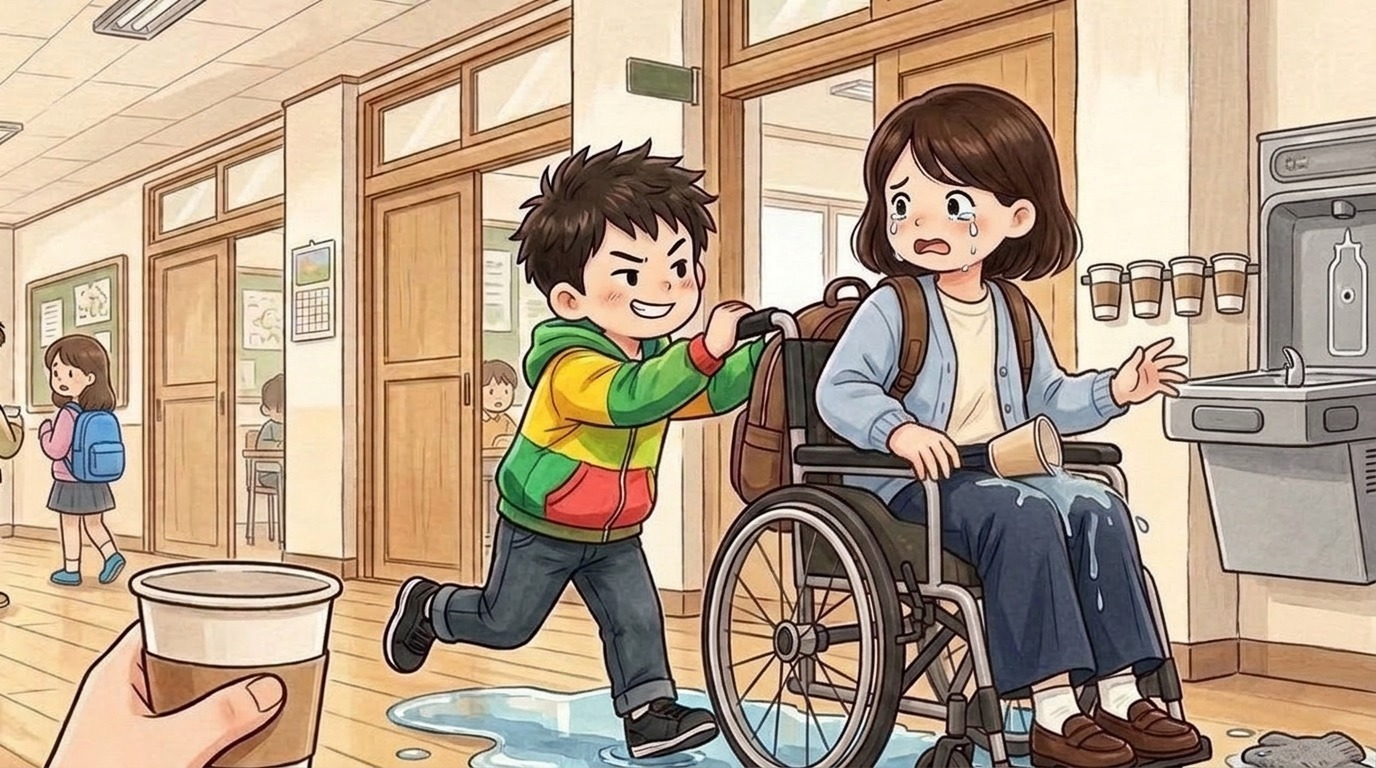
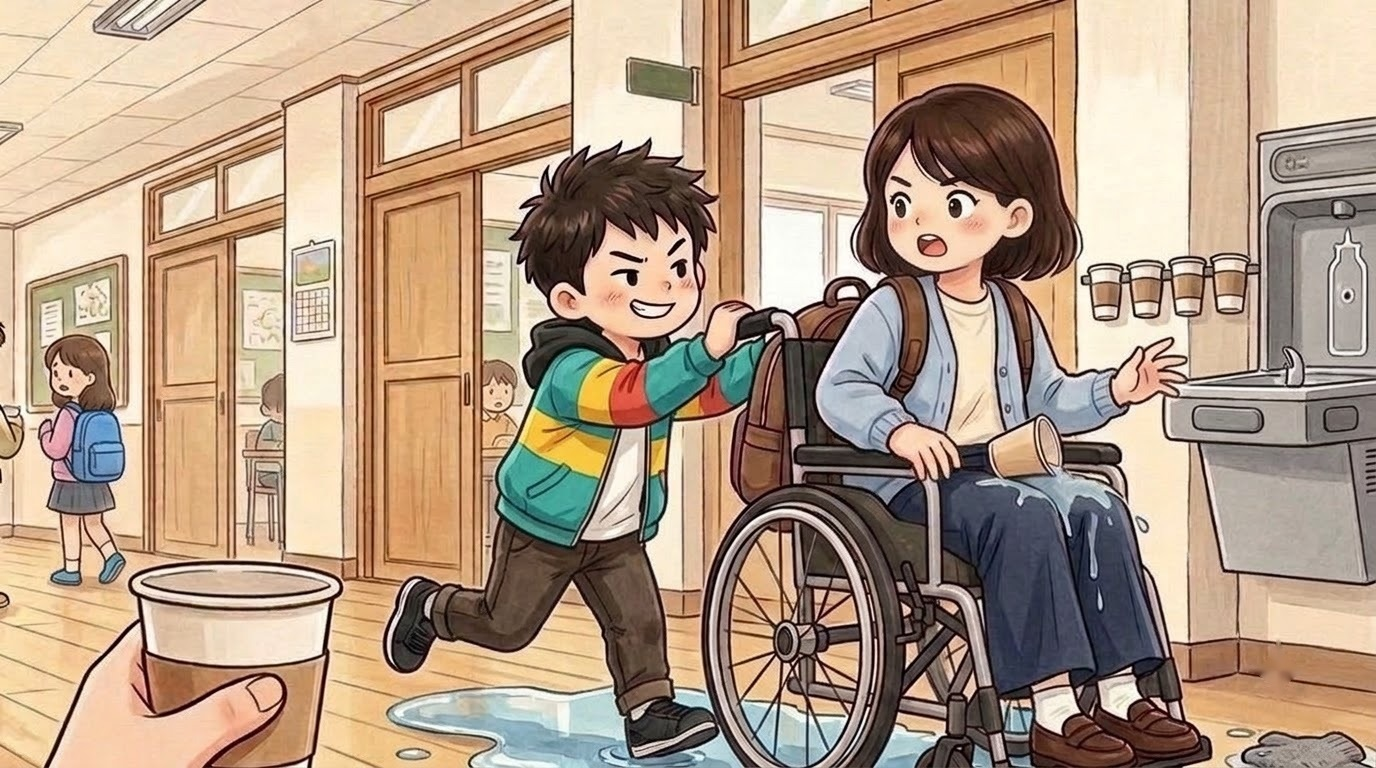
혜은 2일차 휠체어 밀기(hyeeun_02): 우는 얼굴 → 놀라 「잠깐!」 하는 단호한 얼굴, 미는 꼬마 옷을 앞 그림과 같은 알록달록 점퍼로(그림 세션 Flow·메인 비교)

Changed region(s): [[0.2812, 0.4062, 0.5625, 1.0], [0.625, 0.2188, 0.75, 0.375], [0.9062, 0.875, 0.9375, 0.9062]]

diff --git a/index.html b/index.html
@@ -119,14 +119,14 @@ body,button{word-break:keep-all;overflow-wrap:break-word}
 <div id="fader"></div>
 <script>
 // same address, newest version: if the page this phone has kept is older than the one online, fetch the new one and reopen
-const BUILD='1109103709';
+const BUILD='1109104134';
 try{fetch(location.pathname,{cache:'no-store'}).then(r=>r.text()).then(t=>{const m=t.match(/const BUILD='(\d+)'/);if(m&&m[1]!==BUILD&&sessionStorage.getItem('upd')!==m[1]){sessionStorage.setItem('upd',m[1]);fetch(location.pathname,{cache:'reload'}).then(()=>location.reload())}}).catch(()=>{})}catch(e){}
 </script>
-<script src="i18n.js?v=1109103709"></script>
-<script src="i18n_prologue_v2.js?v=1109103709"></script>
-<script src="day2/i18n_engine.js?v=1109103709"></script>
-<script src="day2/data.js?v=1109103709"></script>
-<script src="day3/data.js?v=1109103709"></script>
+<script src="i18n.js?v=1109104134"></script>
+<script src="i18n_prologue_v2.js?v=1109104134"></script>
+<script src="day2/i18n_engine.js?v=1109104134"></script>
+<script src="day2/data.js?v=1109104134"></script>
+<script src="day3/data.js?v=1109104134"></script>
 <script>
 // ---------- data ----------
 const MW=1672,MH=941,KID=180;
@@ -569,36 +569,36 @@ function pickHero(){const m=document.getElementById('modal'),c=document.getEleme
  c.innerHTML=`<h2>${tr('전학생 반장되기')}</h2><p>${tr('한국말이 아직 서툰 전학생,<br>반장 선거에 나가다.')}</p><p style="margin-top:14px">${tr('누구로 할까요?')}</p>${(()=>{const s=loadSave();return s&&s.day>=2&&s.mode===UI+'-'+LANG?`<p><button class="big" id="cont">${tr('{n}일차부터 이어 하기').replace('{n}',s.day)}</button></p>`:''})()}<div class="pick heroes"><button data-h="hero_f"><img src="faces/hero_f_smile.jpg" alt="여자 주인공">${heroName(1)}</button><button data-h="hero_m"><img src="faces/hero_m_smile.jpg" alt="남자 주인공">${heroName(0)}</button></div>`;
  m.classList.add('on');{const cb=document.getElementById('cont');if(cb)cb.onclick=()=>{const s=loadSave();HERO=s.hero;Object.assign(HEART,s.heart||{});(s.found||[]).forEach(k=>FOUND.add(k));HEART_D1={...HEART};chime();(typeof contGame==='function'?contGame(s):startDay(Math.min(s.day,Object.keys(window.D3||{}).length?3:2)))}}c.querySelectorAll('.pick button').forEach(b=>b.onclick=()=>{HERO=b.dataset.h;m.classList.remove('on');chime();bgm('day');load('home_am');say([['nar','','이사 온 다음 날 아침. 아직 풀지 못한 상자들이 쌓여 있다.'],['think','sad','(오늘부터 새 학교야. 여기 말도 아직 서툰데…….)'],['think','smile','({m}한테 인사하고 학교 가야지.)']],morning)})}
 </script>
-<script src="day2/engine.js?v=1109103709"></script>
-<script src="day2/ep_minho.js?v=1109103709"></script>
-<script src="day2/meet.js?v=1109103709"></script>
-<script src="day2/ep_sua.js?v=1109103709"></script>
-<script src="day2/ep_hangyeol.js?v=1109103709"></script>
-<script src="day2/ep_siwoo.js?v=1109103709"></script>
-<script src="day2/ep_haram.js?v=1109103709"></script>
-<script src="day2/ep_jiho.js?v=1109103709"></script>
-<script src="day2/ep_hyeeun.js?v=1109103709"></script>
-<script src="day2/ep_haneul.js?v=1109103709"></script>
-<script src="day2/ep_junho.js?v=1109103709"></script>
-<script src="day2/ep_yuna.js?v=1109103709"></script>
-<script src="day2/ep_yena.js?v=1109103709"></script>
-<script src="day2/ep_haeun.js?v=1109103709"></script>
-<script src="day2/ep_youngmin.js?v=1109103709"></script>
-<script src="day2/ep_seah.js?v=1109103709"></script>
-<script src="day2/ep_jihoon.js?v=1109103709"></script>
-<script src="words_ja_ru.js?v=1109103709"></script>
-<script src="day2/mybag.js?v=1109103709"></script>
-<script src="day2/wordpics.js?v=1109103709"></script>
-<script src="day2/spots.js?v=1109103709"></script>
-<script src="day2/textfit.js?v=1109103709"></script>
-<script src="day2/tester.js?v=1109103709"></script>
-<script src="day2/ux.js?v=1109103709"></script>
-<script src="day2/tapword.js?v=1109103709"></script>
-<script src="day2/review.js?v=1109103709"></script>
-<script src="day2/plane.js?v=1109103709"></script>
-<script src="day2/bubble.js?v=1109103709"></script>
-<script src="day2/ep_ending.js?v=1109103709"></script>
-<script src="day2/ending.js?v=1109103709"></script>
+<script src="day2/engine.js?v=1109104134"></script>
+<script src="day2/ep_minho.js?v=1109104134"></script>
+<script src="day2/meet.js?v=1109104134"></script>
+<script src="day2/ep_sua.js?v=1109104134"></script>
+<script src="day2/ep_hangyeol.js?v=1109104134"></script>
+<script src="day2/ep_siwoo.js?v=1109104134"></script>
+<script src="day2/ep_haram.js?v=1109104134"></script>
+<script src="day2/ep_jiho.js?v=1109104134"></script>
+<script src="day2/ep_hyeeun.js?v=1109104134"></script>
+<script src="day2/ep_haneul.js?v=1109104134"></script>
+<script src="day2/ep_junho.js?v=1109104134"></script>
+<script src="day2/ep_yuna.js?v=1109104134"></script>
+<script src="day2/ep_yena.js?v=1109104134"></script>
+<script src="day2/ep_haeun.js?v=1109104134"></script>
+<script src="day2/ep_youngmin.js?v=1109104134"></script>
+<script src="day2/ep_seah.js?v=1109104134"></script>
+<script src="day2/ep_jihoon.js?v=1109104134"></script>
+<script src="words_ja_ru.js?v=1109104134"></script>
+<script src="day2/mybag.js?v=1109104134"></script>
+<script src="day2/wordpics.js?v=1109104134"></script>
+<script src="day2/spots.js?v=1109104134"></script>
+<script src="day2/textfit.js?v=1109104134"></script>
+<script src="day2/tester.js?v=1109104134"></script>
+<script src="day2/ux.js?v=1109104134"></script>
+<script src="day2/tapword.js?v=1109104134"></script>
+<script src="day2/review.js?v=1109104134"></script>
+<script src="day2/plane.js?v=1109104134"></script>
+<script src="day2/bubble.js?v=1109104134"></script>
+<script src="day2/ep_ending.js?v=1109104134"></script>
+<script src="day2/ending.js?v=1109104134"></script>
 <script>
 // the goal shows big for a few seconds, then folds into a small pill (tap it to open it again)
 {const g=document.getElementById('goal');let t=null;const big=()=>{g.classList.remove('mini');clearTimeout(t);t=setTimeout(()=>g.classList.add('mini'),4000)};
